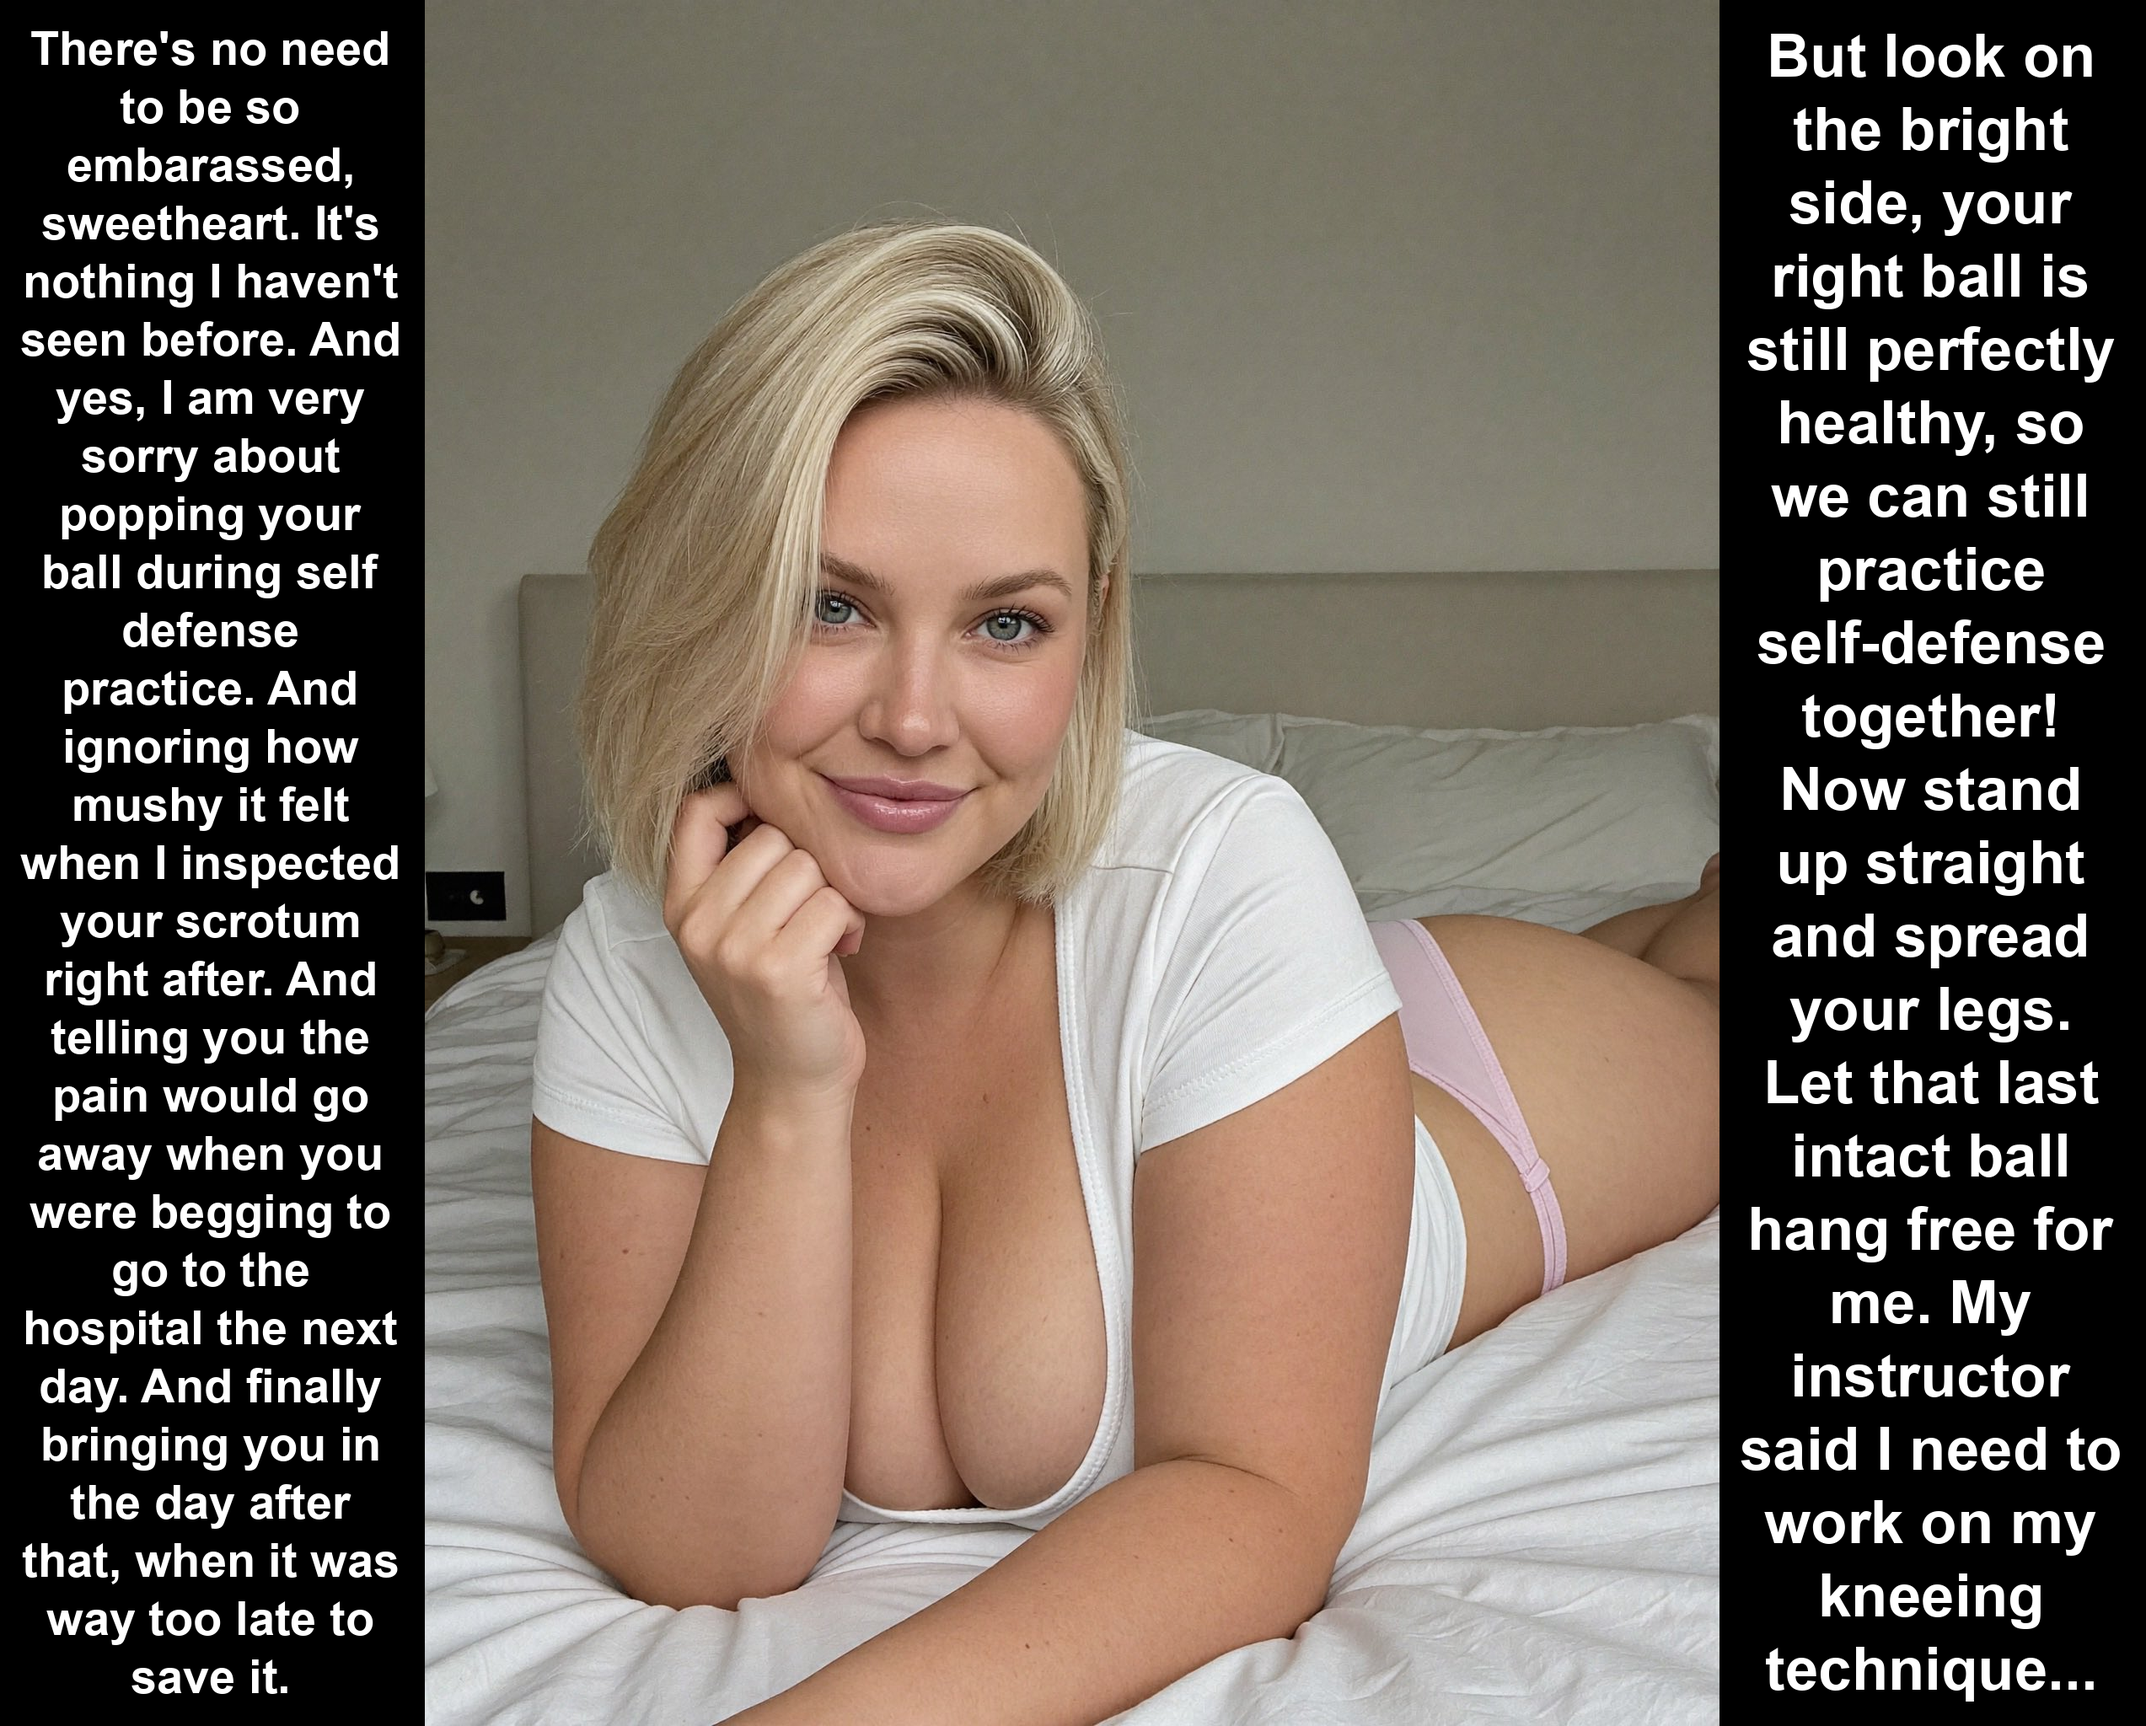
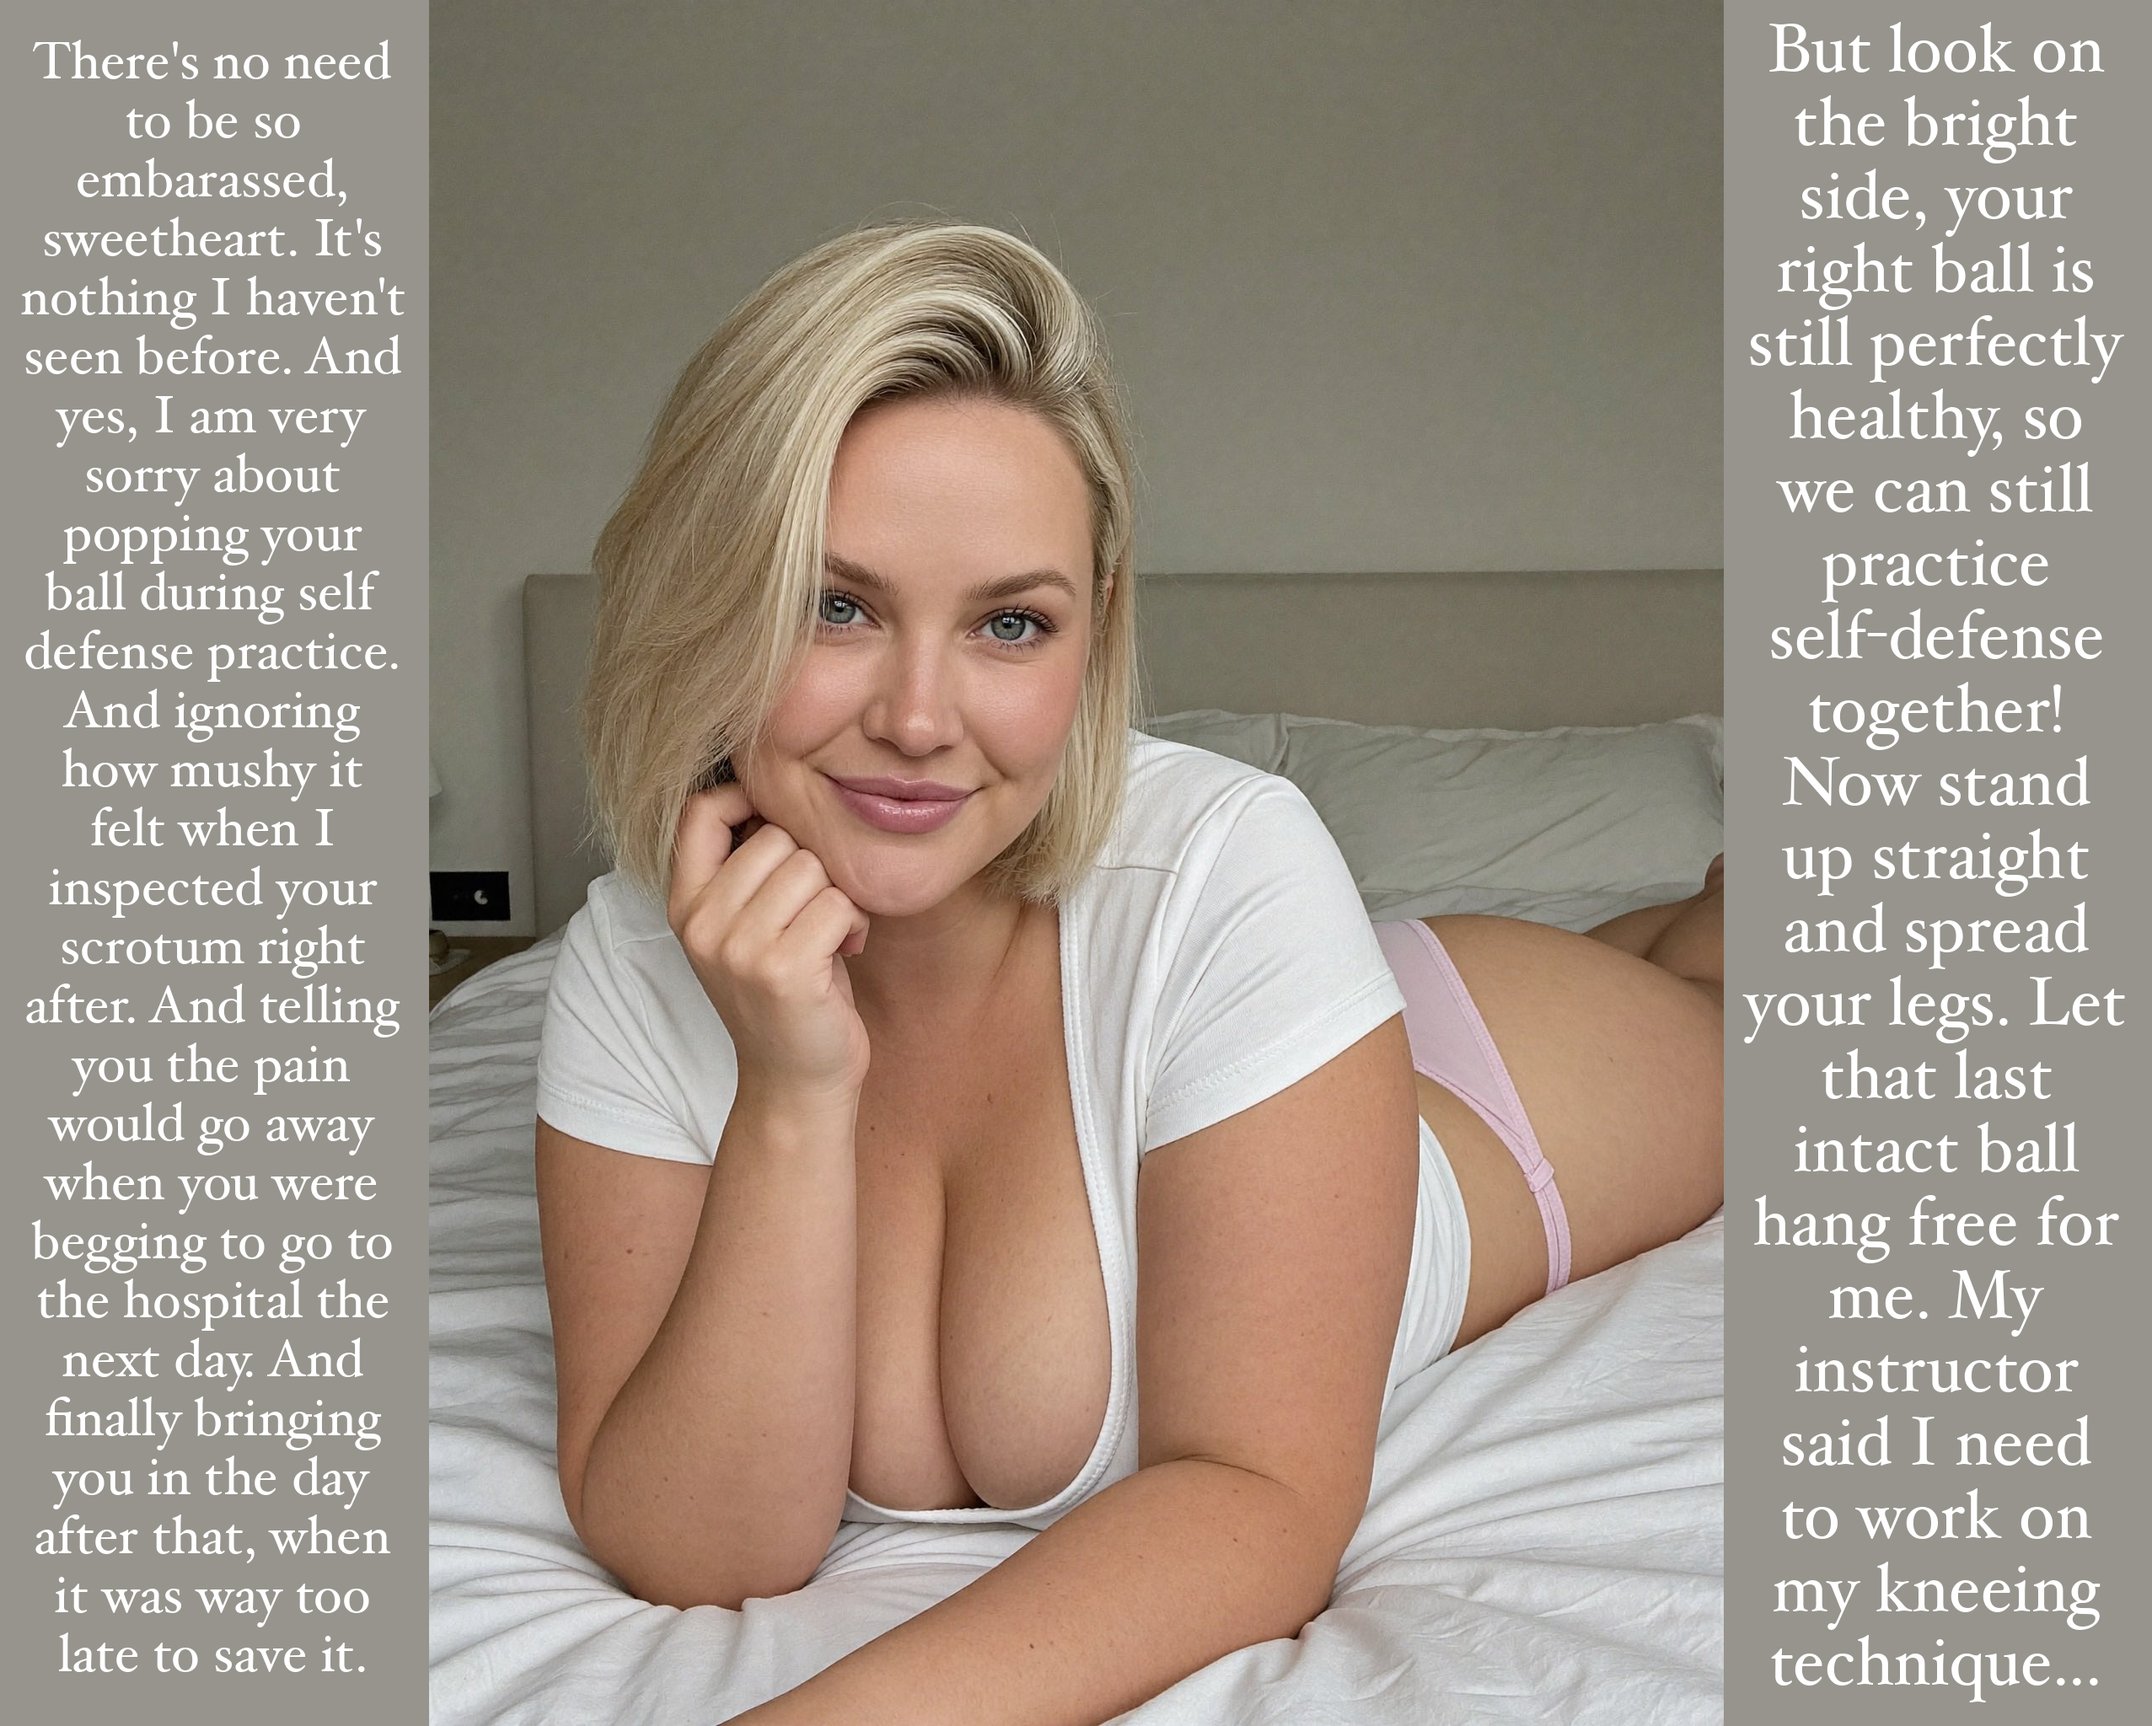
please and update

diff --git a/data/captions.js b/data/captions.js
@@ -15,6 +15,7 @@ window.DATA_CAPTIONS = [
       "bestie",
       "dhl-back-kick",
       "back-from-hospital",
+      "please",
     ],
   },
   {

diff --git a/tools/image-caption/caption.py b/tools/image-caption/caption.py
@@ -315,6 +315,25 @@ def encode_wrap_unit(unit: str, italic: bool) -> str:
     return f"*{unit}*"
 
 
+# Punctuation that should stick to the previous word (no leading space), so
+# ``That *pop*, and`` does not become ``That *pop* , and`` after re-encoding.
+_ATTACH_PUNCT_RE = re.compile(r"^[.,!?;:…'\"’”)\]]+")
+
+
+def join_wrap_units(units: list[tuple[str, bool]]) -> str:
+    if not units:
+        return ""
+    parts = [encode_wrap_unit(units[0][0], units[0][1])]
+    for unit, italic in units[1:]:
+        encoded = encode_wrap_unit(unit, italic)
+        if _ATTACH_PUNCT_RE.match(encoded):
+            parts.append(encoded)
+        else:
+            parts.append(" ")
+            parts.append(encoded)
+    return "".join(parts)
+
+
 def wrap_text(text: str, font: ImageFont.ImageFont, max_width: int) -> list[str]:
     """Wrap at word boundaries only; never split words mid-character.
 
@@ -330,22 +349,18 @@ def wrap_text(text: str, font: ImageFont.ImageFont, max_width: int) -> list[str]
     lines: list[str] = []
     current: list[tuple[str, bool]] = []
 
-    def current_text() -> str:
-        return " ".join(encode_wrap_unit(unit, italic) for unit, italic in current)
-
     for unit, italic in units:
-        encoded = encode_wrap_unit(unit, italic)
         if not current:
             current = [(unit, italic)]
             continue
-        trial = f"{current_text()} {encoded}"
+        trial = join_wrap_units([*current, (unit, italic)])
         if line_width_inline(trial, font, italic_font) <= max_width:
             current.append((unit, italic))
         else:
-            lines.append(current_text())
+            lines.append(join_wrap_units(current))
             current = [(unit, italic)]
     if current:
-        lines.append(current_text())
+        lines.append(join_wrap_units(current))
     return lines
 
 
